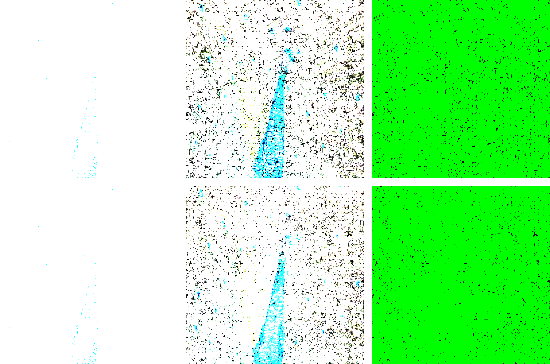
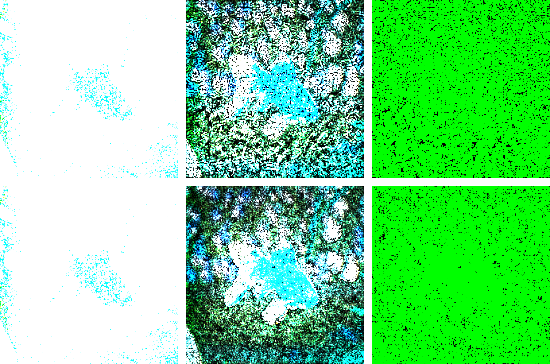
Kernel size tests

diff --git a/generate_results.py b/generate_results.py
@@ -6,7 +6,7 @@ from functions.classification import classification
 from functions.utils.common_utils import *
 from functions.integrated_gradients import *
 
-def generate_result_files(path, adv, orig, num_iter, name, saliency = 'False'):
+def generate_result_files(path, adv, orig, num_iter, name):
     ## Find original class
     P, R = classification(orig, model_name = 'resnet18', sort = True, show=False)
     original_class = R[0,0]
@@ -28,12 +28,7 @@ def generate_result_files(path, adv, orig, num_iter, name, saliency = 'False'):
         Probs_np = torch_to_np(Probs)
         Confidence[i,0] = Probs_np[original_class]        
         P , Ranking = Probs.sort(descending=True)
-        Ranking_np = torch_to_np(Ranking)
-        if saliency:
-            net = getattr(models, 'resnet18')(pretrained=True)
-            saliency_map, predictions = integrated_gradients(img,original_class,net)
-            plt.imsave("{}/sal_it_{}.png".format(path,i*100),
-                       saliency_map, format="png")               
+        Ranking_np = torch_to_np(Ranking)           
         for j in range(5):
             Confidence[i,j+1] = Probs_np[final_classes[j]]
             Ranks_matrix[i,j] = Ranking_np[j]

diff --git a/functions/saliency.py b/functions/saliency.py
@@ -37,7 +37,7 @@ def generate_saliency_maps(path, img_path, model_type = 'resnet18', cuda = False
         img = cv2.resize(img, (224, 224))
 
     img = img.astype(np.float32)
-    #img = img[:, :, (2, 1, 0)]
+    img = img[:, :, (2, 1, 0)]
 
     # calculate the gradient and the label index
     gradients, label_index = calculate_outputs_and_gradients([img], model, None, cuda)
